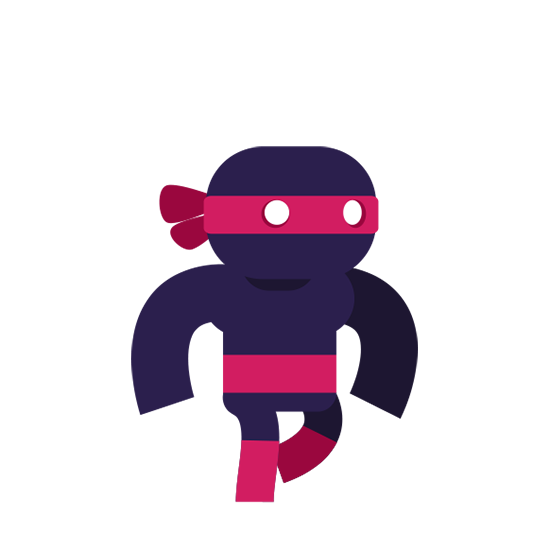
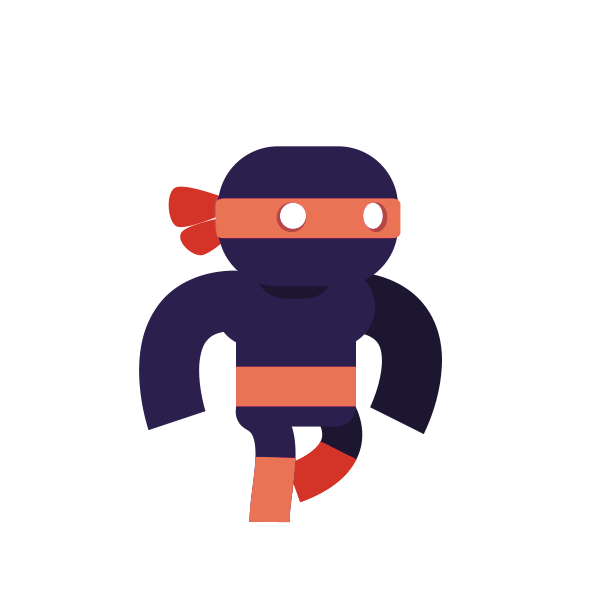
first version of changing ninja function => to improve (maybe use currentAction given by the bdd)

Changed region(s): [[0.2164, 0.2164, 0.7727, 0.9273], [0.4327, 0.4636, 0.5564, 0.5255]]

diff --git a/client/src/containers/Dashboard/index.js b/client/src/containers/Dashboard/index.js
@@ -23,6 +23,7 @@ class Dashboard extends Component {
       currentActionImg: "default"
     }
   }
+
   displayNeedBlock = () => {
     const { needs = {}, currentAction } = this.state
     const {
@@ -42,27 +43,31 @@ class Dashboard extends Component {
       <div className='need-block'>
         <div className='level'>
           <h5>{`Niv. ${level}`}</h5>
-          <NeedBar percentage={ (experience/experienceMax) * 100 } color='40D1D8'/>
+          <NeedBar percentage={(experience / experienceMax) * 100} color='40D1D8' />
         </div>
 
-        <Needs needs = {needsProps}/>
+        <Needs needs={needsProps} />
 
         {
-        <div className = 'actions'>
-          {Object.entries(needsProps).map(([label, need]) => {
-            const { action } = need
+          <div className='actions'>
+            {Object.entries(needsProps).map(([label, need]) => {
+              const { action } = need
 
-            return (
-              <Button key={label}
-                disabled={!!currentAction}
-                title = {actionsNamingMap[action]}
-                image = {`./images/needs/${label}.png`}
-                callBack= {() => this.action(action)}
-              />
-            )
-          })}
-        </div>
-
+              return (
+                <Button key={label}
+                  disabled={!!currentAction}
+                  title={actionsNamingMap[action]}
+                  image={`./images/needs/${label}.png`}
+                  callBack={() => {
+                    this.action(action)
+                    this.changeNinjaImage(action)
+                    }
+                  }
+                />
+              )
+            })}
+          </div>
+        }
       </div>
     )
   }
@@ -86,17 +91,17 @@ class Dashboard extends Component {
   displayMissionBlock = () => {
     const { missions = [], currentAction } = this.state
     return (
-      <div className = 'mission-block'>
+      <div className='mission-block'>
         {missions.map((item, i) =>
-          <div className="mission" key = {i}><Mission mission={item} currentAction={currentAction} /></div>
+          <div className="mission" key={i}><Mission mission={item} currentAction={currentAction} /></div>
         )}
       </div>
     )
   }
 
-  displaySkillsBlock = () =>  {
+  displaySkillsBlock = () => {
     const { skills = {}, currentAction } = this.state
-    return <React.Fragment><Skill skills={skills} currentAction={currentAction} /></React.Fragment>
+    return <React.Fragment><Skill changeNinjaImageFunction={this.changeNinjaImage} skills={skills} currentAction={currentAction} /></React.Fragment>
   }
 
   displayInventoryBlock = () => {
@@ -117,19 +122,19 @@ class Dashboard extends Component {
       const totalTime = endTime - startActionDate
       const percent = (elapsedTime / totalTime) * 100
       return (
-        <div className = 'actions'>
-          Votre ninja est en train de {currentAction.title}<br/>
+        <div className='actions'>
+          Votre ninja est en train de {currentAction.title}<br />
           <CircularMeasure percent={percent} />
         </div>
       )
     }
     return (
       <div>
-        Votre ninja s'ennuie !<br/>
+        Votre ninja s'ennuie !<br />
         Faites lui faire quelque chose.
       </div>
     )
-}
+  }
 
   update = async () => {
     const {
@@ -176,7 +181,9 @@ class Dashboard extends Component {
     this.autoUpdate()
   }
 
-
+  changeNinjaImage = (action) => {
+    this.setState({ currentActionImg: action })
+  }
 
   render() {
     if (this.state.currentActionImg == null) this.setState({ currentActionImg: "default" })
@@ -185,10 +192,11 @@ class Dashboard extends Component {
         <Menu pseudo="ROBERT" />
         <div className='dashboard-app'>
           <DashboardBlock title="Action" content={this.displayActionBlock()} />
-          <DashboardBlock title="Besoins" content={this.displayNeedBlock()}/>
+          <DashboardBlock title="Besoins" content={this.displayNeedBlock()} />
           <DashboardBlock title="Missions" content={this.displayMissionBlock()} />
-          <DashboardBlock title="Compétences" content={this.displaySkillsBlock()}/>
-          <DashboardBlock title="Inventaire" content={this.displayInventoryBlock()}/>
+          <DashboardBlock title="Compétences" content={this.displaySkillsBlock()} />
+          <DashboardBlock title="Inventaire" content={this.displayInventoryBlock()} />
+          <NinjaBlock currentActionImg={this.state.currentActionImg} />
         </div>
       </React.Fragment>
     )

diff --git a/client/src/components/Skill/index.js b/client/src/components/Skill/index.js
@@ -6,22 +6,27 @@ import RadarChart from '../RadarChart'
 
 class Skill extends Component {
   throwShurikens = () => {
+    this.props.changeNinjaImageFunction("shuriken")
     console.log("throwShurikens")
   }
 
   readBooks = () => {
+    this.props.changeNinjaImageFunction("reading")
     console.log("readBooks")
   }
 
   dissimulation = () => {
+    this.props.changeNinjaImageFunction("hidding")
     console.log("dissimulation")
   }
 
   bodybuilding = () => {
+    this.props.changeNinjaImageFunction("strength")
     console.log("bodybuilding")
   }
 
   juggling = () => {
+    this.props.changeNinjaImageFunction("juggling")
     console.log("juggling")
   }
 

diff --git a/client/src/containers/NinjaBlock/index.js b/client/src/containers/NinjaBlock/index.js
@@ -7,7 +7,6 @@ class NinjaBlock extends Component {
     return (
       <div className='ninja-block'>
         <img className = 'ninja-img' alt ={`My ninja ${currentActionImg}`} src={`./images/ninja/${currentActionImg}.png`}/>
-        <h3>NOM DU NINJA</h3>
       </div>
     )
   }

diff --git a/client/src/components/Inventory/index.js b/client/src/components/Inventory/index.js
@@ -16,7 +16,7 @@ class Inventory extends Component {
   }
 
   displayEmptySlots = (nbr) => {
-    let slots = [];
+    let slots = []
     for (let i = 0; i <= nbr; i++) {
       slots.push(<StuffSlot />)
     }

diff --git a/client/src/containers/Dashboard/style.css b/client/src/containers/Dashboard/style.css
@@ -2,7 +2,8 @@
     width: 100%;
     height: 100%;
     display:flex;
-    flex-wrap: wrap; 
+    flex-wrap: wrap;
+    justify-content:center; 
     align-items: center;
 }
 
